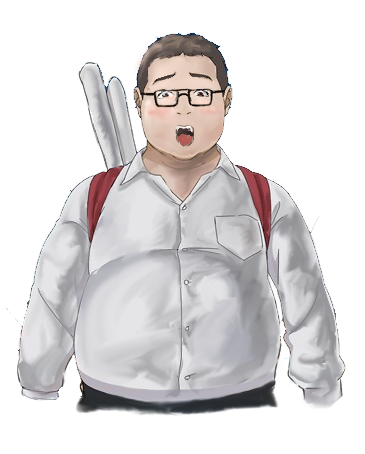
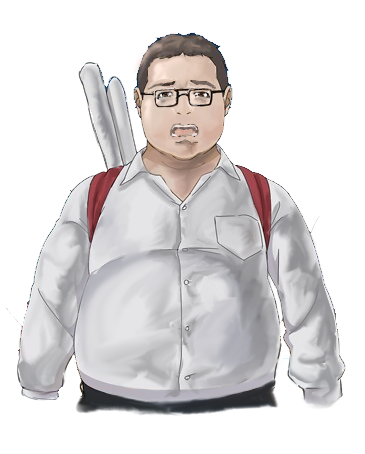
character 2d array

Changed region(s): [[0.3918, 0.1542, 0.6027, 0.3392]]

diff --git a/classroom_scene.c b/classroom_scene.c
@@ -5,11 +5,19 @@ ALLEGRO_FONT *classroom_user_name = NULL;
 ALLEGRO_FONT *class_font = NULL;
 
 Dialogue class_dialogue[] = {
-    {0, "我：最近在資工系感覺課業繁重啊... "},
-    {0, "我：還好系上的泡麵頭教授人很好,下一節他的課我也要好好努力www"},
-    {0, "而且最令人期待的是等等會跟女神一起上課 (owo)"},
-    {0, "不知道今天有沒有機會跟她說到話呢～（歪頭燦笑）"},
-    {0, "我：（鐘響）啊啊要趕快去下一堂課了，不然搶不到好位子，先不說了..."}
+    {1, -1, "我：最近在資工系感覺課業繁重啊... "},
+    {2, -1, "我：還好系上的泡麵頭教授人很好,下一節他的課我也要好好努力www"},
+    {3, -1, "而且最令人期待的是等等會跟女神一起上課 (owo)"},
+    {4, -1, "不知道今天有沒有機會跟她說到話呢～（歪頭燦笑）"},
+    {5, -1, "我：（鐘響）啊啊要趕快去下一堂課了，不然搶不到好位子，先不說了..."},
+    {6, 0, "不知名宅宅：同...同學，你好可愛喔，跟我交往好嗎www？（後空翻"},
+    {7, 1, "教授：以上是今天的教學內容，這裡有一個題目，(玩家姓名)同學願意試試看嗎？"},
+    {8, 1, "問：剛剛上課提到了oj系統 截至目前為止請問oj上有幾道題目(不含contest)？"},
+    {9, 2, "校花：不好意思，剛剛老師教的我不太懂，可以教我一下嗎？"},
+    {10, -1, "我：（女神居然主動找我！！我要好好表現！！）"},
+    {11, -1, "我：哪一題有問題呢？我可以試試看wwwwww"},
+    {12, 2, "校花：你看這題...."},
+    {13, 2, "校花：對了，請問你是什麼學校的呢？"},
 };
 int classroom_dialogue_index = 0;  
 int classroom_dialogue_counter = 0;  
@@ -36,14 +44,20 @@ void classroom_scene_process(ALLEGRO_EVENT event) {
 void classroom_scene_draw() {
     al_clear_to_color(al_map_rgb(0, 0, 0));  // 清除畫面為黑色
     al_draw_scaled_bitmap(classroom_scene_background, 0, 0, al_get_bitmap_width(classroom_scene_background), al_get_bitmap_height(classroom_scene_background), 0, 0, WIDTH, HEIGHT, 0);
-   
-    al_draw_bitmap(main_character_bitmap, 0, 0, 0);
+    
+    Dialogue current_dialog = class_dialogue[classroom_dialogue_index];
+    if (current_dialog.character == -1) {
+        al_draw_bitmap(main_character_bitmap, 0, 0, 0);
+    } else {
+        al_draw_bitmap(character_bitmaps[current_dialog.character][0], 0, 0, 0);
+    }
+
     al_draw_filled_rectangle(text_box_x, text_box_y*0.8, text_box_x*4, text_box_y*0.7, al_map_rgb(246,165,192));
     al_draw_filled_rectangle(text_box_x, text_box_y - text_box_height, text_box_x + text_box_width, text_box_y, al_map_rgb(255, 255, 255));
     al_draw_rectangle(text_box_x, text_box_y - text_box_height, text_box_x + text_box_width, text_box_y, al_map_rgb(246,165,192), 10);
     al_draw_text(user_name_font, al_map_rgb(0,0,0), text_box_x*1.5, text_box_y*0.705, ALLEGRO_ALIGN_LEFT, user_name);
     
-    typemachine(0.01, class_dialogue[classroom_dialogue_index].text, dialogue_font, al_map_rgb(0, 0, 0), text_box_x + 25, text_box_y - text_box_height + 30, &classroom_dialogue_counter);
+    typemachine(0.01, current_dialog.text, dialogue_font, al_map_rgb(0, 0, 0), text_box_x + 25, text_box_y - text_box_height + 30, &classroom_dialogue_counter);
 }
 
 void classroom_scene_destroy() {

diff --git a/GameWindow.c b/GameWindow.c
@@ -59,6 +59,22 @@ void game_init() {
     main_character_bitmap = al_load_bitmap("image/main_character_boy.png");
     user_name_font = al_load_font("./font/hand_write_CH.ttf", 100, 0);
     dialogue_font = al_load_font("font/hand_write_CH.ttf",80, 0);
+
+    for (int i = 0; i < 3; i++) {
+        char image_path[100];
+        sprintf(image_path, "./image/classmate/%d.png", i);
+        character_bitmaps[0][i] = al_load_bitmap(image_path);
+    }
+    for (int i = 0; i < 4; i++) {
+        char image_path[100];
+        sprintf(image_path, "./image/professor/%d.png", i);
+        character_bitmaps[1][i] = al_load_bitmap(image_path);
+    } 
+    for (int i = 0; i < 4; i++) {
+        char image_path[100];
+        sprintf(image_path, "./image/goddes/%d.png", i);
+        character_bitmaps[2][i] = al_load_bitmap(image_path);
+    } 
 }
 
 void game_begin() {
@@ -221,4 +237,9 @@ void game_destroy() {
     al_destroy_bitmap(main_character_bitmap);
     al_destroy_font(user_name_font);
     al_destroy_font(dialogue_font);
+    for (int i = 0; i < 3; i++) {
+        for (int j = 0; j < 4; j++) {
+            al_destroy_bitmap(character_bitmaps[i][j]);
+        }
+    }
 }

diff --git a/global.c b/global.c
@@ -25,5 +25,11 @@ float text_box_x = WIDTH / 15;           // 文字框的起始 x 座標
 float text_box_y = (float)HEIGHT *((float)8/9) ;      // 文字框的起始 y 座標
 
 ALLEGRO_BITMAP *main_character_bitmap = NULL;
+ALLEGRO_BITMAP *character_bitmaps[3][4];
+// first dim
+// 0: classmate, 1: professor, 2: goddes
+// second dim
+// tang's work
+
 ALLEGRO_FONT *user_name_font = NULL;
 ALLEGRO_FONT *dialogue_font = NULL;

diff --git a/global.h b/global.h
@@ -34,6 +34,7 @@ extern float text_box_x;           // 文字框的起始 x 座標
 extern float text_box_y;      // 文字框的起始 y 座標
 
 extern ALLEGRO_BITMAP *main_character_bitmap;
+extern ALLEGRO_BITMAP *character_bitmaps[3][4];
 extern ALLEGRO_FONT *user_name_font;
 extern ALLEGRO_FONT *dialogue_font;
 

diff --git a/utils.h b/utils.h
@@ -3,6 +3,7 @@
 #define UTILS_H
 
 typedef struct {
+    int index;
     int character;
     char text[256];
 } Dialogue;
